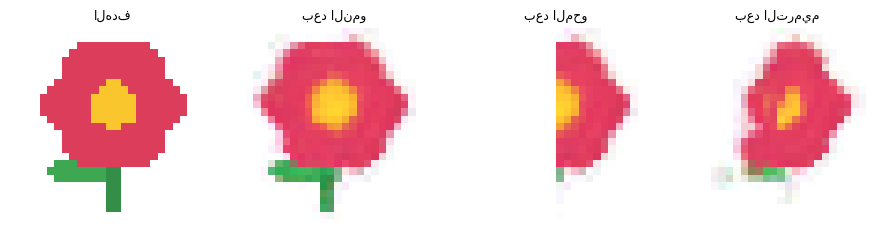
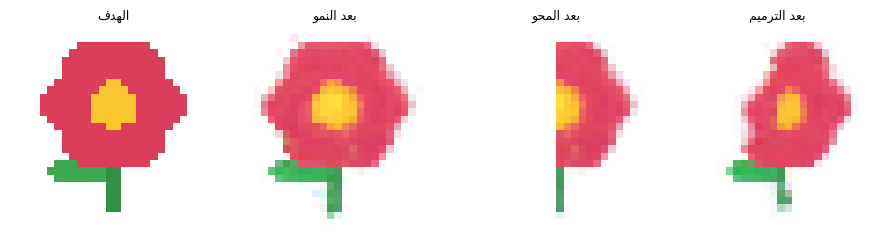
Fix the Automata workshop arabic layout

diff --git a/workshops/growing-neural-cellular-automata/code.py b/workshops/growing-neural-cellular-automata/code.py
@@ -26,6 +26,8 @@ env = azimuth.setup(SLUG, lang=LANG, profile=PROFILE)
 import matplotlib.pyplot as plt
 import numpy as np
 import torch
+import arabic_reshaper
+from bidi.algorithm import get_display
 
 GRID = env.cfg["grid"]
 
@@ -443,6 +445,9 @@ else:
 # --8<-- [start:damage]
 HEAL_STEPS = env.cfg["healSteps"]
 
+def ar(text: str) -> str:
+    """Join Arabic letters into their connected forms, then reorder for LTR drawing."""
+    return get_display(arabic_reshaper.reshape(text))
 
 def erase_half(state: torch.Tensor, side: str) -> torch.Tensor:
     """Zero one half of the grid, every channel — hidden ones included.
